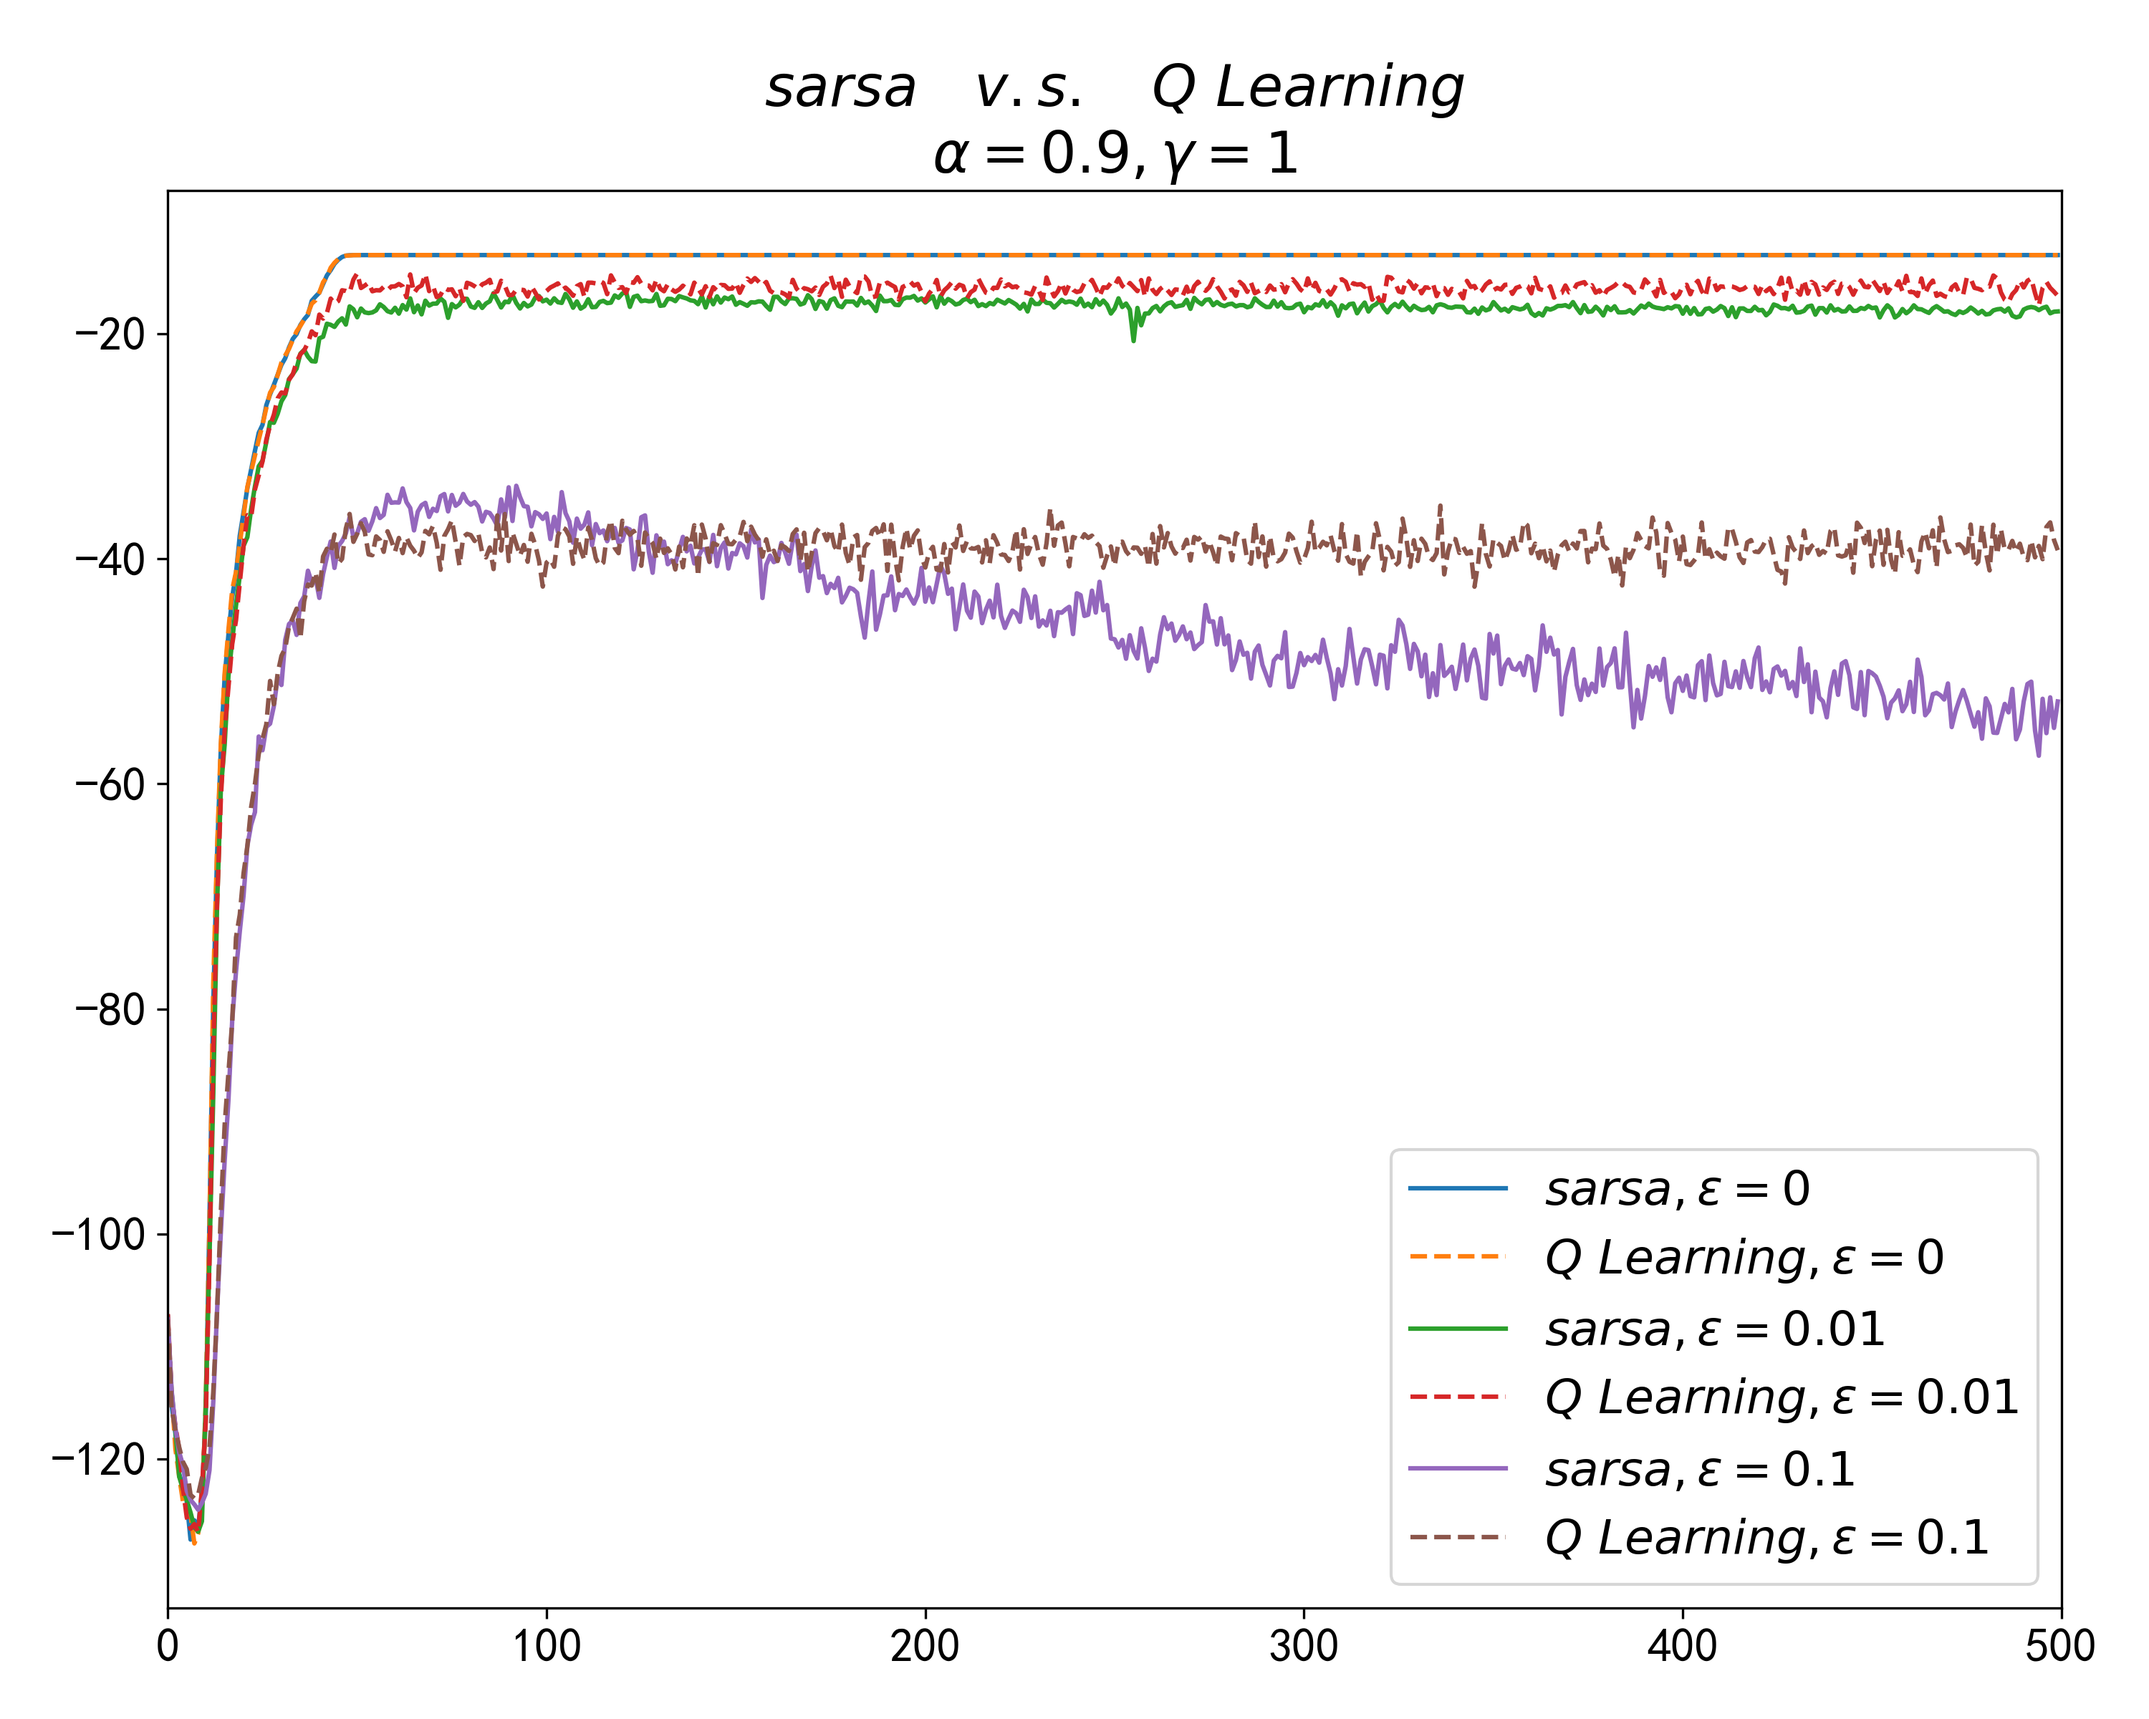
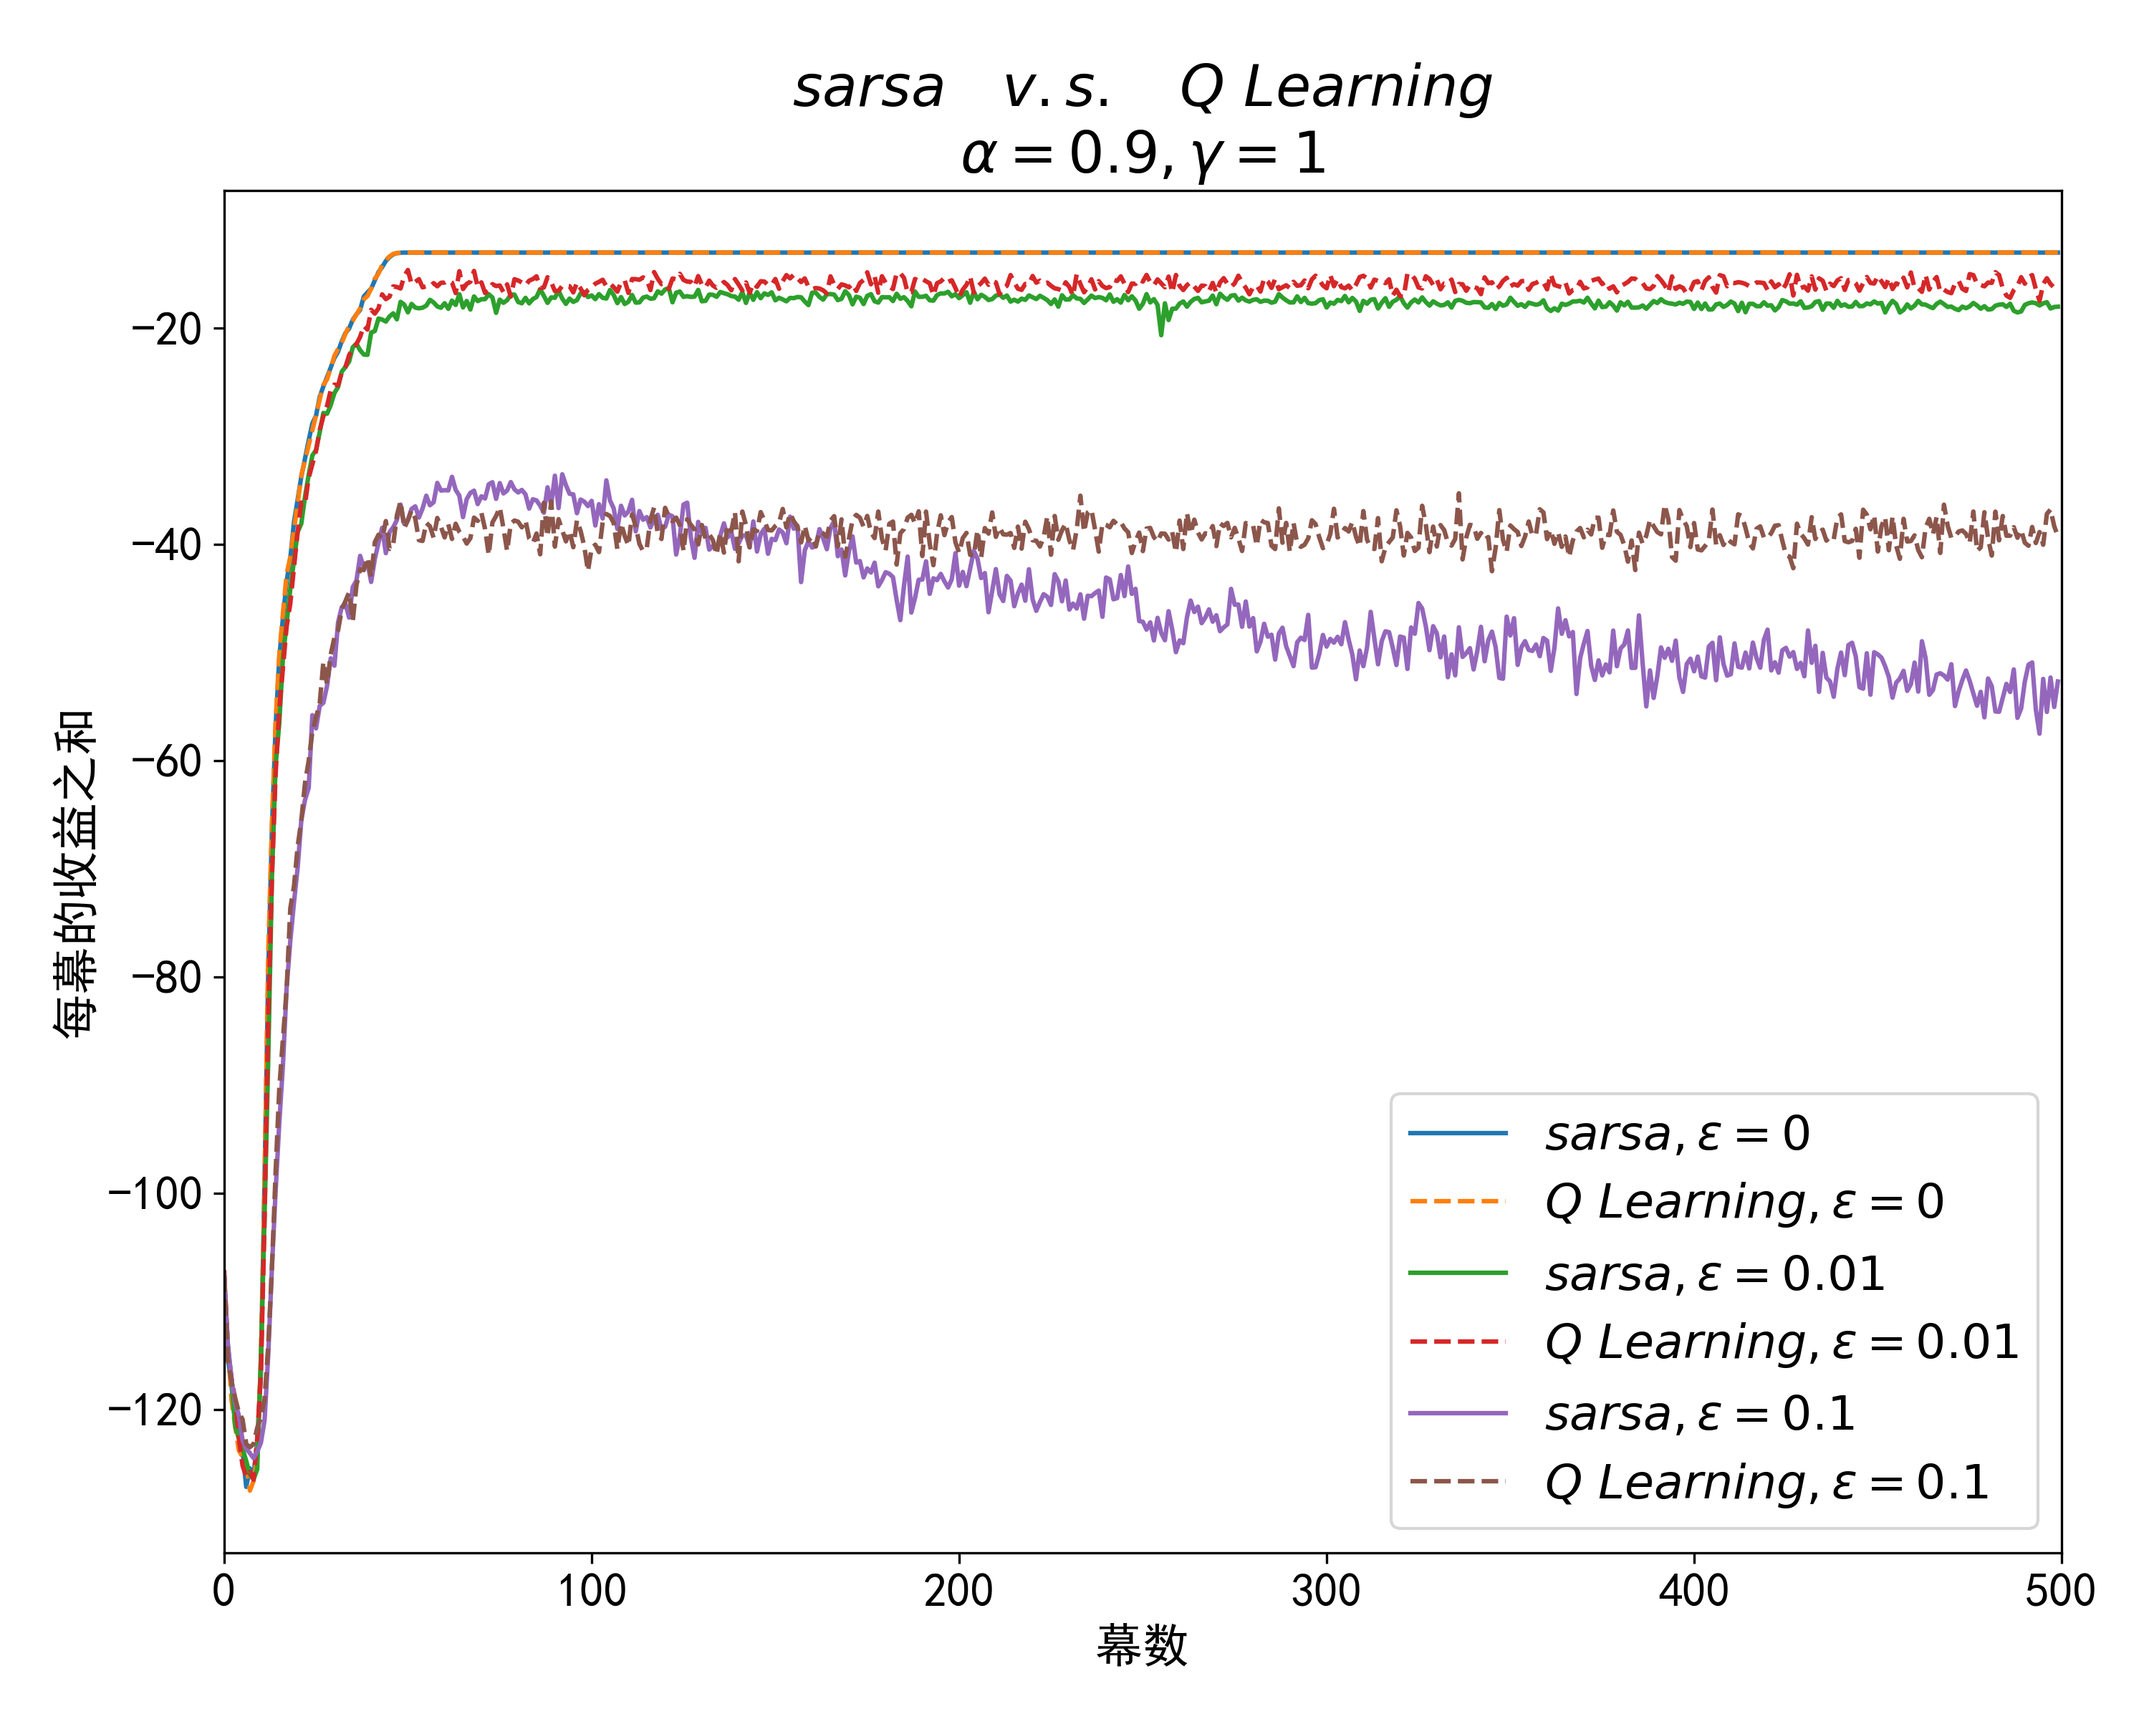
update code

diff --git a/Reinforcement Learning/code130/main.py b/Reinforcement Learning/code130/main.py
@@ -34,6 +34,8 @@ def position_action_iterator():
                 yield position, action
 
 def plot_savefig(title: str, fname: str):
+    plt.xlabel("幕数")
+    plt.ylabel("每幕的收益之和")
     plt.title(title)
     plt.legend()
     plt.xlim(0, 500)
